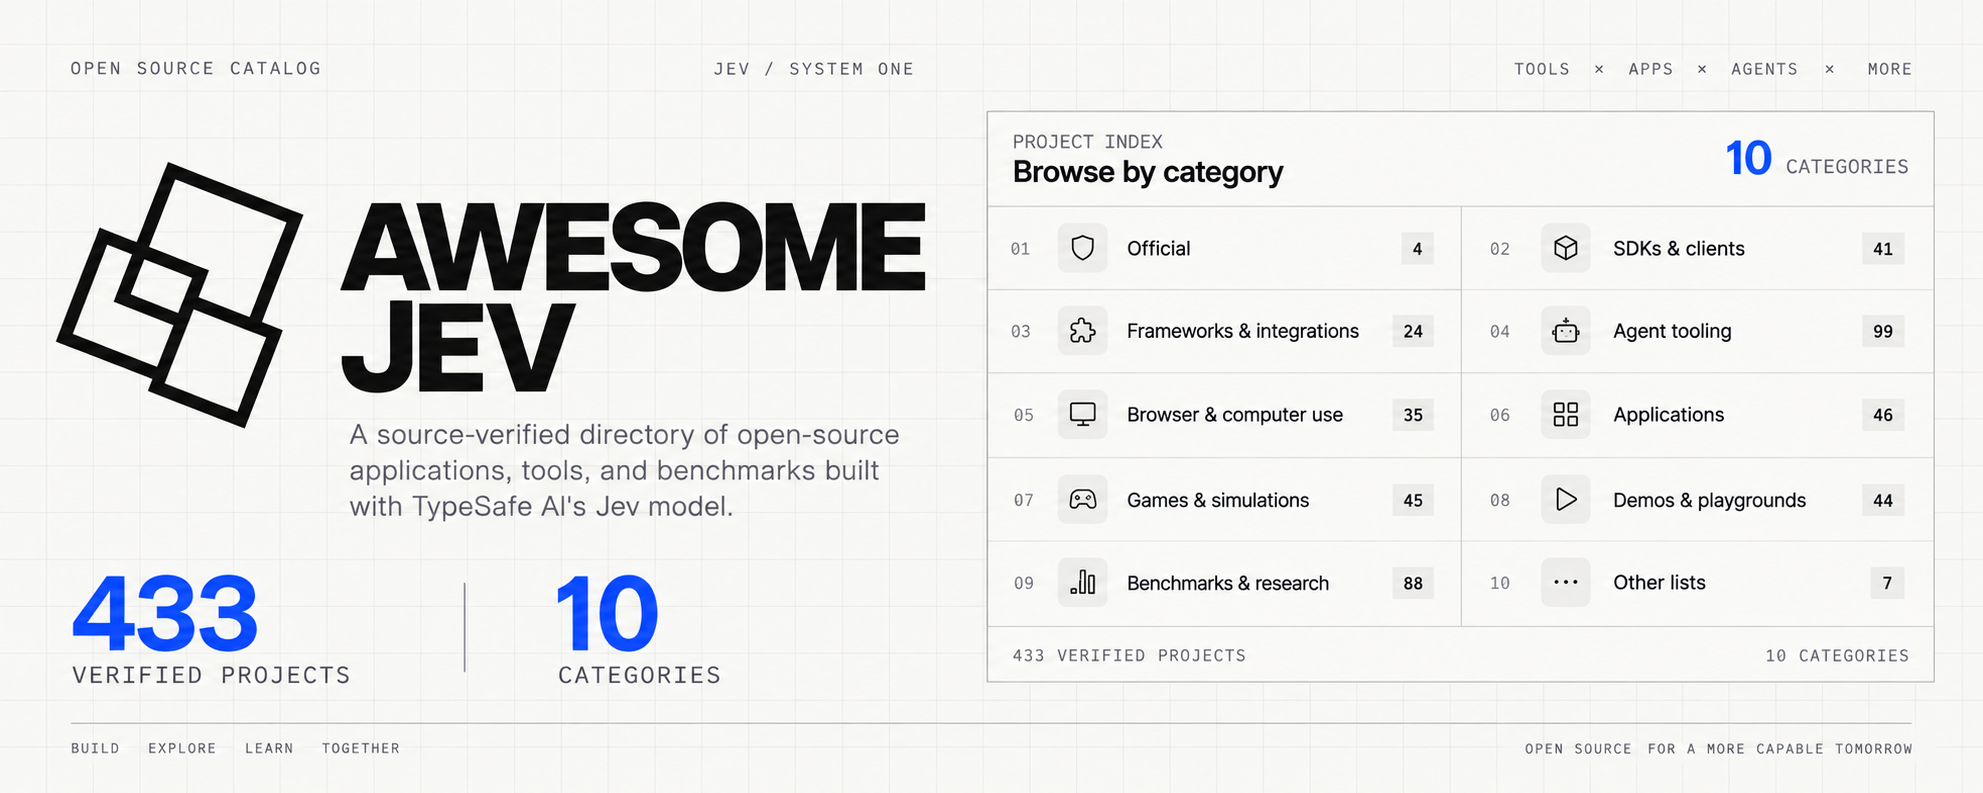
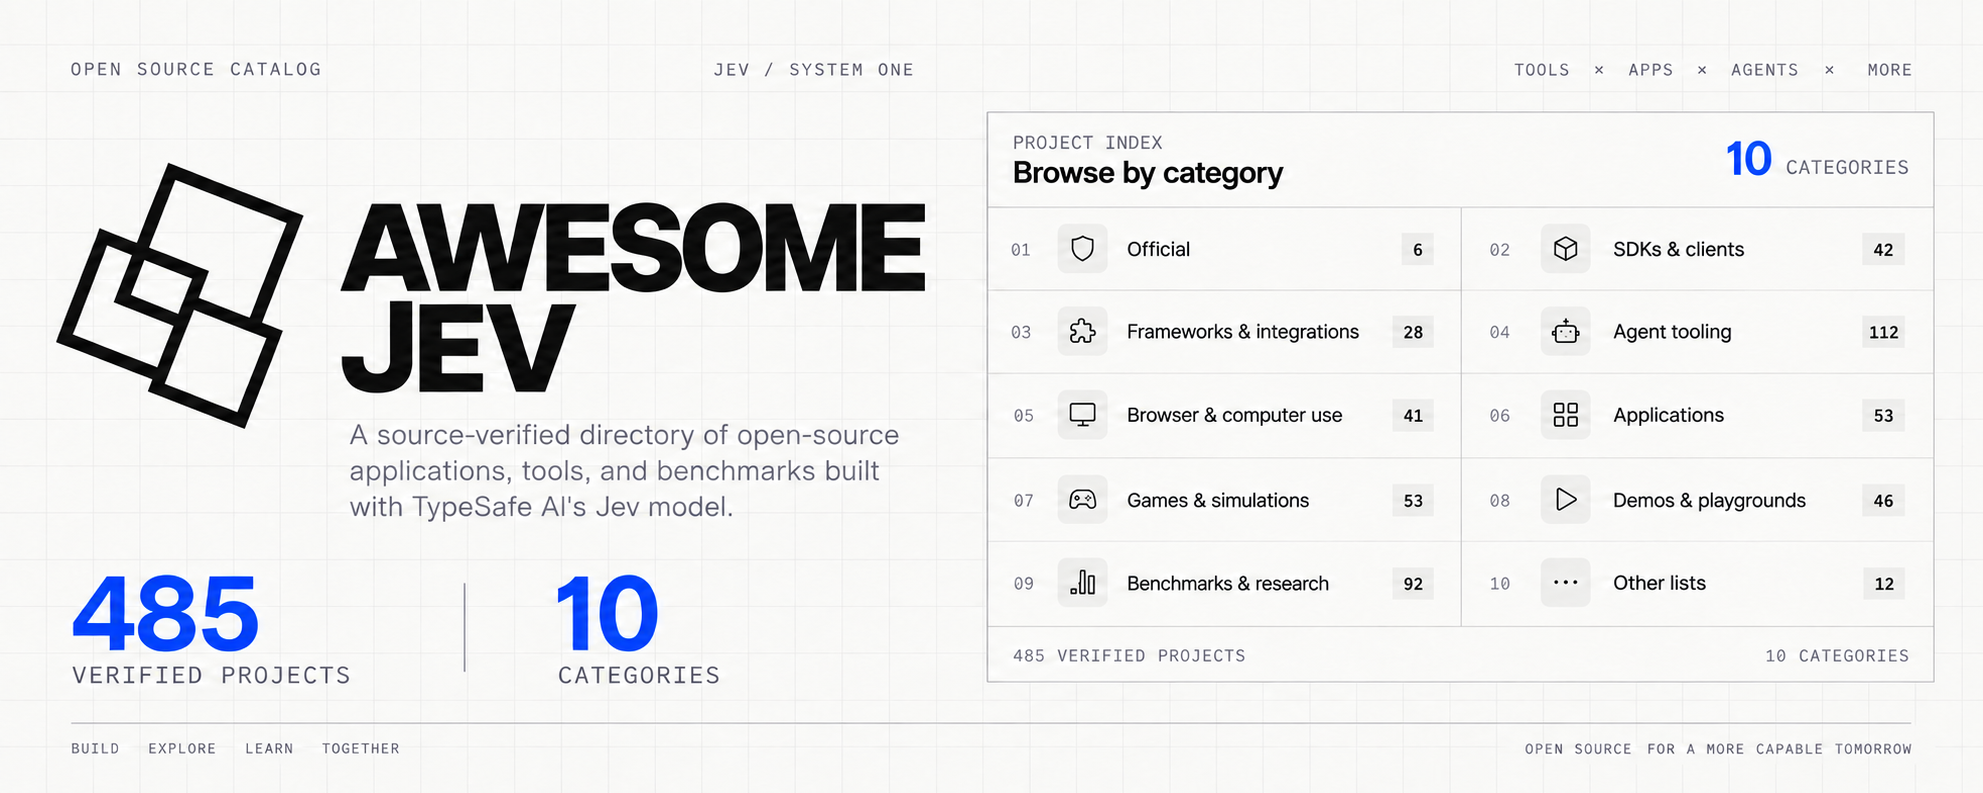
Refresh catalog cover and highlight daily additions

diff --git a/README.md b/README.md
@@ -42,13 +42,23 @@ Awesome Jev is an independent, community-maintained catalog of **485 open-source
 
 This README is a dated snapshot of **485 unique public GitHub repositories**. Stars were captured on **2026-09-18–20** for discovery, not ranking; verify current behavior, activity, and licensing upstream.
 
-## Featured project
+## Added today
 
-Featured projects have a verified call site, a concrete decision description, public source or an accessible demo, current review metadata, and sources for every displayed metric.
+<details open>
+<summary><strong>52 projects added on September 20, 2026</strong></summary>
 
-| Project | Stars | Language | Description |
-|---|---:|---|---|
-| [Jev Ultrafast](https://github.com/browser-use/jev-ultrafast) | ★ 4,799 | Python | Selects the next browser operation and target element from the visible page state. [Call site verified](https://github.com/browser-use/jev-ultrafast/blob/main/jev_ultrafast/agent.py) · Maintainer runbook · Metrics author-reported. |
+- **Official (2):** [TypeSafe Daggerverse](https://github.com/typesafe-ai/daggerverse), [TypeSafe Overwatch](https://github.com/typesafe-ai/Overwatch)
+- **SDKs & clients (1):** [jev-cli](https://github.com/lhotwll217/jev-cli)
+- **Frameworks & integrations (4):** [jevql](https://github.com/kylemclaren/jevql), [ground-zero](https://github.com/zavocc/ground-zero), [hiep-paseo-plugin](https://github.com/HiepPP/hiep-paseo-plugin), [jev-connector](https://github.com/adhamelhayek-lab/jev-connector)
+- **Agent tooling (13):** [tenet](https://github.com/zoidsh/tenet), [jev-belay](https://github.com/valentynkit/jev-belay), [jev-commit](https://github.com/valentynkit/jev-commit), [pi-fast-jev-compaction](https://github.com/QuentinDanblon/pi-fast-jev-compaction), [jev-flash-router](https://github.com/Ravinder82/jev-flash-router), [pi-jev](https://github.com/iefnaf/pi-jev), [pi-jev-helm](https://github.com/Z761293629/pi-jev-helm), [stepwarden](https://github.com/getexcited/stepwarden), [AskJev-MCP](https://github.com/cbruyndoncx/AskJev-MCP), [jev-compaction](https://github.com/picaye/jev-compaction), [jev-plugins](https://github.com/Pinutss/jev-plugins), [jevkeep](https://github.com/hatt-io/jevkeep), [pi-jev-router](https://github.com/gloridifice/pi-jev-router)
+- **Browser & computer use (6):** [jev-social](https://github.com/socai-io/jev-social), [jev-skip](https://github.com/valentynkit/jev-skip), [jevarena](https://github.com/raihankhan-rk/jevarena), [jev-browser-pilot](https://github.com/aidil2105/jev-browser-pilot), [jevlens](https://github.com/knowlet/jevlens), [jev-orb](https://github.com/bottlebrushes/jev-orb)
+- **Applications (7):** [jev.nvim](https://github.com/valentynkit/jev.nvim), [github-star-organizer-jev](https://github.com/yutkat/github-star-organizer-jev), [jev](https://github.com/haibt163/jev), [JevSysUno](https://github.com/Dujaydis/JevSysUno), [jev-trader](https://github.com/renatosousa/jev-trader), [newsscore](https://github.com/mahynotch/newsscore), [trading-bot-jev](https://github.com/Spykoninho/trading-bot-jev)
+- **Games & simulations (8):** [jev-plays-pokemon-red](https://github.com/valentynkit/jev-plays-pokemon-red), [jev-royal](https://github.com/Amrit-Nigam/jev-royal), [beat-jev](https://github.com/ojusave/beat-jev), [f1](https://github.com/MartinPuli/f1), [jev-atari-lab](https://github.com/memorysaver/jev-atari-lab), [jev-plays-pokemon](https://github.com/zbloss/jev-plays-pokemon), [JevArena](https://github.com/rolki-png/JevArena), [naimono-lab](https://github.com/mocchalera/naimono-lab)
+- **Demos & playgrounds (2):** [forma-system1-experiment](https://github.com/LamplighterPaul/forma-system1-experiment), [tiny-jev](https://github.com/karimatayuta/tiny-jev)
+- **Benchmarks & research (4):** [openjev](https://github.com/DECRUX9812/openjev), [paper-package](https://github.com/CompleteDotTech/paper-package), [jev-vs-luna](https://github.com/mameli/jev-vs-luna), [typed-decisions](https://github.com/kotoba-lang/typed-decisions)
+- **Other lists (5):** [awesome-jev-by-typesafe](https://github.com/Anil-matcha/awesome-jev-by-typesafe), [awesome-jev](https://github.com/hellogumbo/awesome-jev), [awesome-jev-typesafe](https://github.com/valentynkit/awesome-jev-typesafe), [jevusecases](https://github.com/theSekyi/jevusecases), [Jev-Case](https://github.com/Hiwoniu/Jev-Case)
+
+</details>
 
 ### Official (6)
 
@@ -688,7 +698,7 @@ Please include:
 - Metric sources and measurement method
 - Optional localized summaries
 
-Submissions without a public call site may enter the review queue, but they are not eligible for Featured until the implementation is verified.
+Submissions without a public call site may enter the review queue and can be added after the implementation is verified.
 
 To edit catalog data, verification metadata, translations, or repository tooling, read [CONTRIBUTING.md](CONTRIBUTING.md). It contains the schema, editorial rules, evidence requirements, localization workflow, and validation commands.
 
